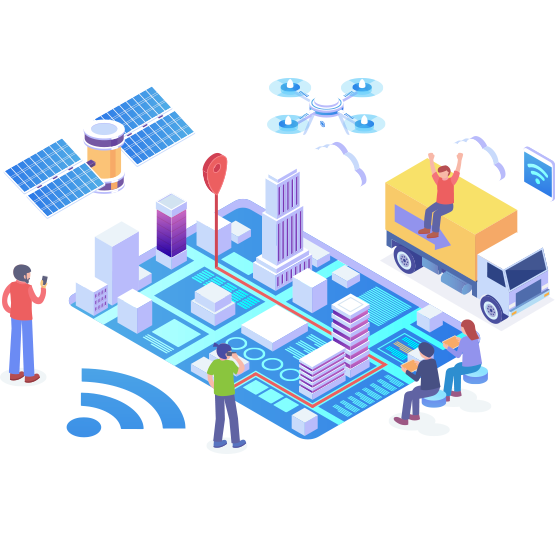
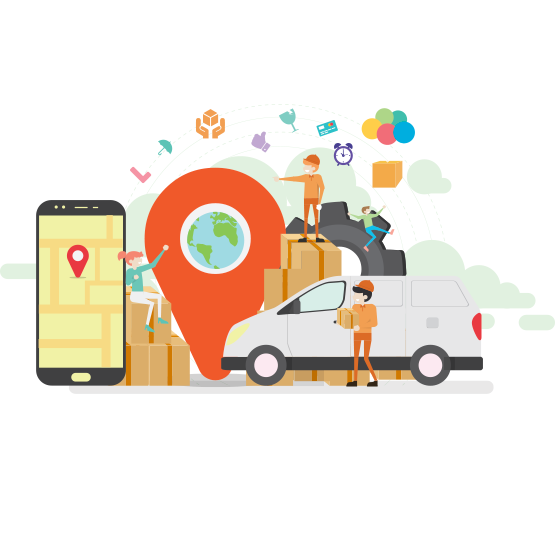
OnRoute Landing Pages

diff --git a/web/landing pages/onroute/index.html b/web/landing pages/onroute/index.html
@@ -139,109 +139,14 @@
                 <!--begin col-md-12 -->
                 <div class="col-md-12 text-center padding-top-50">
 
-                    <h2 class="section-title">Amazing Secure Community Platform</h2>
+                    <h2 class="section-title">Company Subscription</h2>
 
-                    <p class="section-subtitle">Articul8te is a secure community platform that offers individuals and businesses an opportunity to create, publish, schedule, store content and manage communications in private or public mode. Publishing in “public” mode, any non-member or member on Articul8te will have access to a User’s article, events or invites and surveys.</p>
+                    <p class="section-subtitle">Whether for a courier service, limousine and taxi, private booking or transporter company, easily track in Realtime, send notifications to customers or drivers and allow for your customers to track as well by web or app. Onroute.tech offers a powerful platform with the ease of selecting a subscription package that suits your budget.</p>
+					
+					<img src="images/header-1.png" class="hero-image width-100" alt="pic">
                     
                 </div>
                 <!--end col-md-12 -->
-
-                <!--begin col-md-4 -->
-                <div class="col-md-4">
-
-                    <div class="main-services">
-
-                        <img src="images/partners.svg" class="width-100" alt="pic">
-                      
-                        <h3>Creating an article or task</h3>
-
-                        <p>Business Process Improvement work flows through intuitive user processes.</p>
-                        
-                    </div>
-
-                </div>
-                <!--end col-md-4 -->
-
-                <!--begin col-md-4 -->
-                <div class="col-md-4">
-
-                    <div class="main-services">
-
-                        <img src="images/knowledge.svg" class="width-100" alt="pic">
-
-                        <h3>Timeline Document Tracker</h3>
-
-                        <p>Time management of Human Capital is the most significant aspect and value of a company’s fabric.</p>
-                        
-                    </div>
-
-                </div>
-                <!--end col-md-4 -->
-
-                <!--begin col-md-4 -->
-                <div class="col-md-4">
-
-                    <div class="main-services">
-
-                       <img src="images/team.svg" class="width-100" alt="pic">
-
-                        <h3>To-Do-List Quick Tool</h3>
-
-                        <p>User friendly with quick access by web or mobile app, the To-Do list easily converts short notes to a Task/Article/Invite.</p>
-                        
-                    </div>
-
-                </div>
-                <!--end col-md-4 -->
-				
-				<!--begin col-md-4 -->
-                <div class="col-md-4">
-
-                    <div class="main-services">
-
-                        <img src="images/partners.svg" class="width-100" alt="pic">
-                      
-                        <h3>Creating a Group Messenger</h3>
-
-                        <p>A communication network is key for managing Human Capital, including Relationships with vendors, agents, and customers. </p>
-                        
-                    </div>
-
-                </div>
-                <!--end col-md-4 -->
-
-                <!--begin col-md-4 -->
-                <div class="col-md-4">
-
-                    <div class="main-services">
-
-                        <img src="images/knowledge.svg" class="width-100" alt="pic">
-
-                        <h3>Private & Public Articles, Events and Surveys</h3>
-
-                        <p>Private articles surveys or events can only be viewed by a shared individual or group.</p>
-                        
-                    </div>
-
-                </div>
-                <!--end col-md-4 -->
-
-                <!--begin col-md-4 -->
-                <div class="col-md-4">
-
-                    <div class="main-services">
-
-                       <img src="images/team.svg" class="width-100" alt="pic">
-
-                        <h3>Social-Media & Email Sharing </h3>
-
-                        <p>Allows users to share any articles, surveys, invites or events that have been created or received publicly.</p>
-                        
-                    </div>
-
-                </div>
-                <!--end col-md-4 -->
-           
             </div>
             <!--end row -->
             
@@ -251,55 +156,6 @@
     </section>
     <!--end section-grey -->
 
-    <!--begin section-white -->
-    <section class="section-white section-top-border">
-
-        <!--begin container -->
-        <div class="container">
-
-            <!--begin row -->
-            <div class="row">
-
-                <!--begin col-md-6 -->
-                <div class="col-md-6 padding-top-30">
-
-                    <!--begin features-second-->
-                    <div class="features-second">
-
-                        <h4 class="margin-bottom-5">Sales, Content & Task management application</h4>
-
-                        <p>Velis demo enim ipsam voluptatem quia voluptas sit aspernatur netsum lorem fugit, sed quia magni dolores eos qui ratione sequi nesciunt neque et poris ratione sequi enim quia tempor magni.</p>
-                    
-						<ul class="benefits">
-							<li><i class="fa fa-check"></i> Quia magni netsum eos qui ratione sequi.</li>
-							<li><i class="fa fa-check"></i> Venis ratione sequi enim quia tempor magni.</li>
-							<li><i class="fa fa-check"></i> Enim ipsam voluptatem quia voluptas.</li>
-						</ul>
-
-					<a href="#contact" class="btn-orange scrool">Get Started</a>
-
-                    </div>
-                    <!--end features-second-->
-
-                </div>
-                <!--end col-md-6-->
-           
-                <!--begin col-md-6-->
-                <div class="col-md-6 wow slideInRight" data-wow-delay="0.25s" style="visibility: visible; animation-delay: 0.25s; animation-name: slideInRight;">
-
-                    <img src="images/800x631.png" class="hero-image width-100" alt="pic">
-
-                </div>
-                <!--end col-md-6-->
-
-            </div>
-            <!--end row -->
-            
-        </div>
-        <!--end container -->
-
-    </section>
-    <!--end section-white -->
 
     <!--begin section-blue -->
     <section class="section-blue" id="hotitworks">
@@ -324,17 +180,15 @@
                 <!--end col-md-6-->
 
                 <!--begin col-md-6-->
-                <div class="col-md-6 padding-top-30">
+                <div class="col-md-6 padding-top-20">
 
-                    <h4 class="white-text">Creating Tasks and Invites, with tracking and calendar functionality.</h4>
+                    <h4 class="white-text">Create A Showcase Package For Your Fleet</h4>
 
-                    <p class="white-text">Velis demo enim ipsam voluptatem quia voluptas sit aspernatur netsum lorem fugit, sed quia magni dolores eos qui ratione sequi nesciunt neque et poris ratione sequi enim quia tempor magni.</p>
+                    <p class="white-text">After they have chosen their package a company can begin to create and showcase their vehicles and services.Companies can create multi-tier packages offering a wide variety of services to their customers.</p>
+					
+					<h4 class="white-text">Customer Login & Tracking</h4>
 
-					<ul class="dark-list white-text">
-							<li><i class="fa fa-check"></i> Quia magni netsum eos qui ratione sequi.</li>
-							<li><i class="fa fa-check"></i> Venis ratione sequi enim quia tempor magni.</li>
-							<li><i class="fa fa-check"></i> Enim ipsam voluptatem quia voluptas.</li>
-						</ul>
+                    <p class="white-text">Customers can simply login and view your fleet, packages and availabilities, track their pickup and delivery status.After they have chosen their vehicle they can book their ride. Sending the company a notification in Realtime.</p>
 
                 </div>
                 <!--end col-md-6-->
@@ -358,16 +212,19 @@
             <div class="row">
             
                 <!--begin col-md-6-->
-                <div class="col-md-6 padding-top-20">
+                <div class="col-md-6">
 
-                	<h3>Get ready to discover all the benefits and secrets of our amazing software.</h3>
+                	<h4>Customer booking application for Car Service:</h4>
 
-                	<p>Velis demo enim ipsam voluptatem quia voluptas sit aspernatur netsum lorem fugit, sed quia magni dolores eos qui ratione sequi nesciunt neque et poris ratione sequi enim quia tempor magni.</p>
-                    
                 	<ul class="benefits">
-						<li><i class="fa fa-check"></i> Quia magni netsum eos qui ratione sequi.</li>
-						<li><i class="fa fa-check"></i> Venis ratione sequi enim quia tempor magni.</li>
-						<li><i class="fa fa-check"></i> Enim ipsam voluptatem quia voluptas.</li>
+						<li><i class="fa fa-check"></i> Customisable interface</li>
+						<li><i class="fa fa-check"></i> Transaction based SAAS model</li>
+						<li><i class="fa fa-check"></i> Track your employees</li>
+						<li><i class="fa fa-check"></i> Track your driver</li>
+						
+						<li><i class="fa fa-check"></i> Track your package</li>
+						<li><i class="fa fa-check"></i> Geo Tracking</li>
+						<li><i class="fa fa-check"></i> Real time</li>
 					</ul>
 
 					<a href="#contact" class="btn-orange scrool">Get Started</a>
@@ -526,7 +383,7 @@
                 <!--begin col-md-12 -->
                 <div class="col-md-12 text-center">
                    
-                    <p>Copyright © 2019 Articul8te.com All Rights Reserved.</p>
+                    <p>Copyright © 2019 Onroute.tech All Rights Reserved.</p>
                                          
                     <!--begin footer_social -->
                     <ul class="footer_social">
